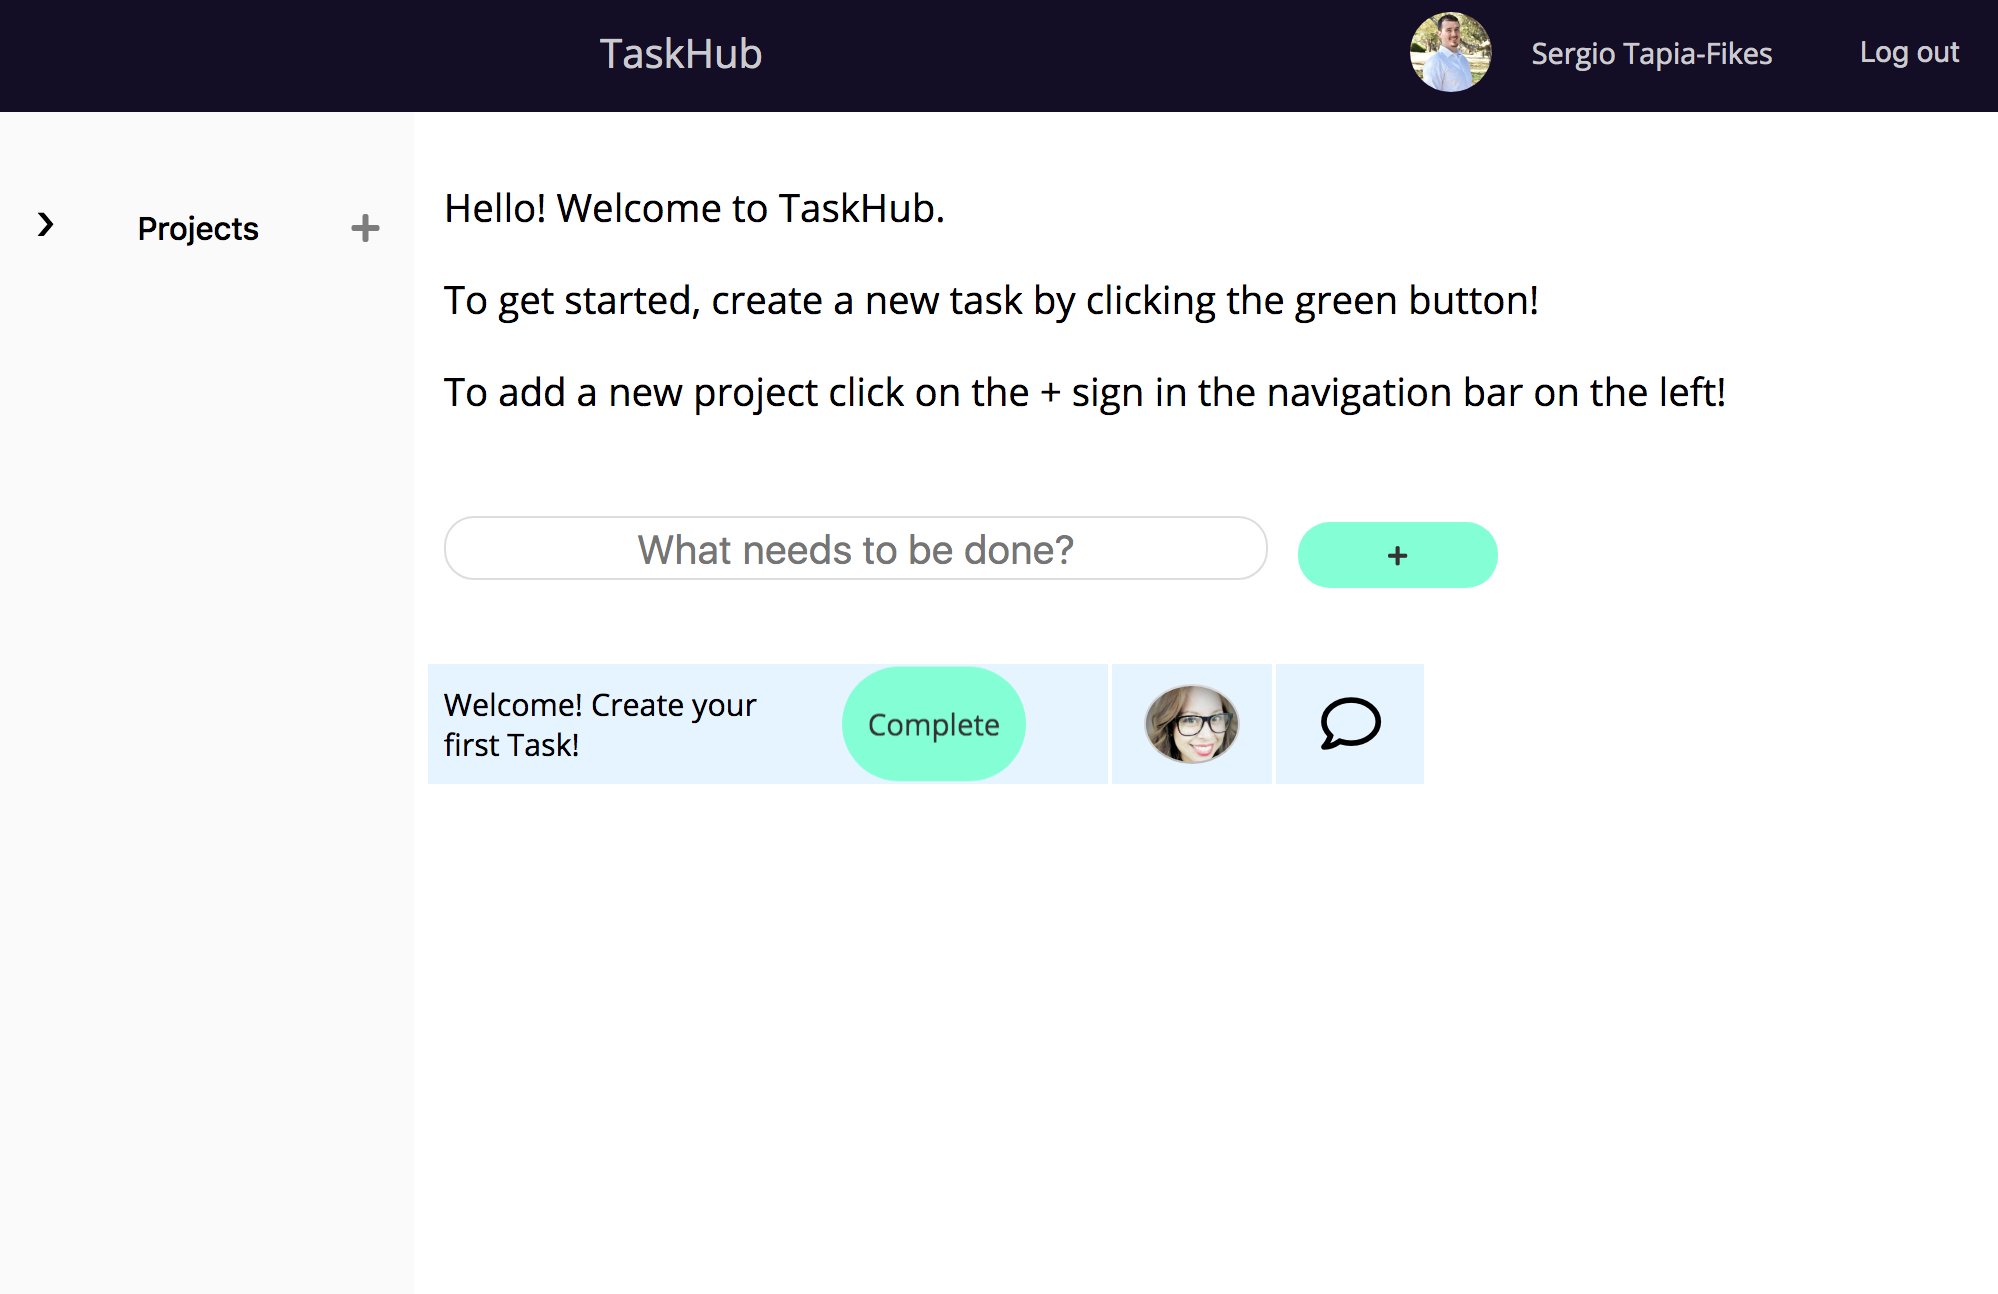
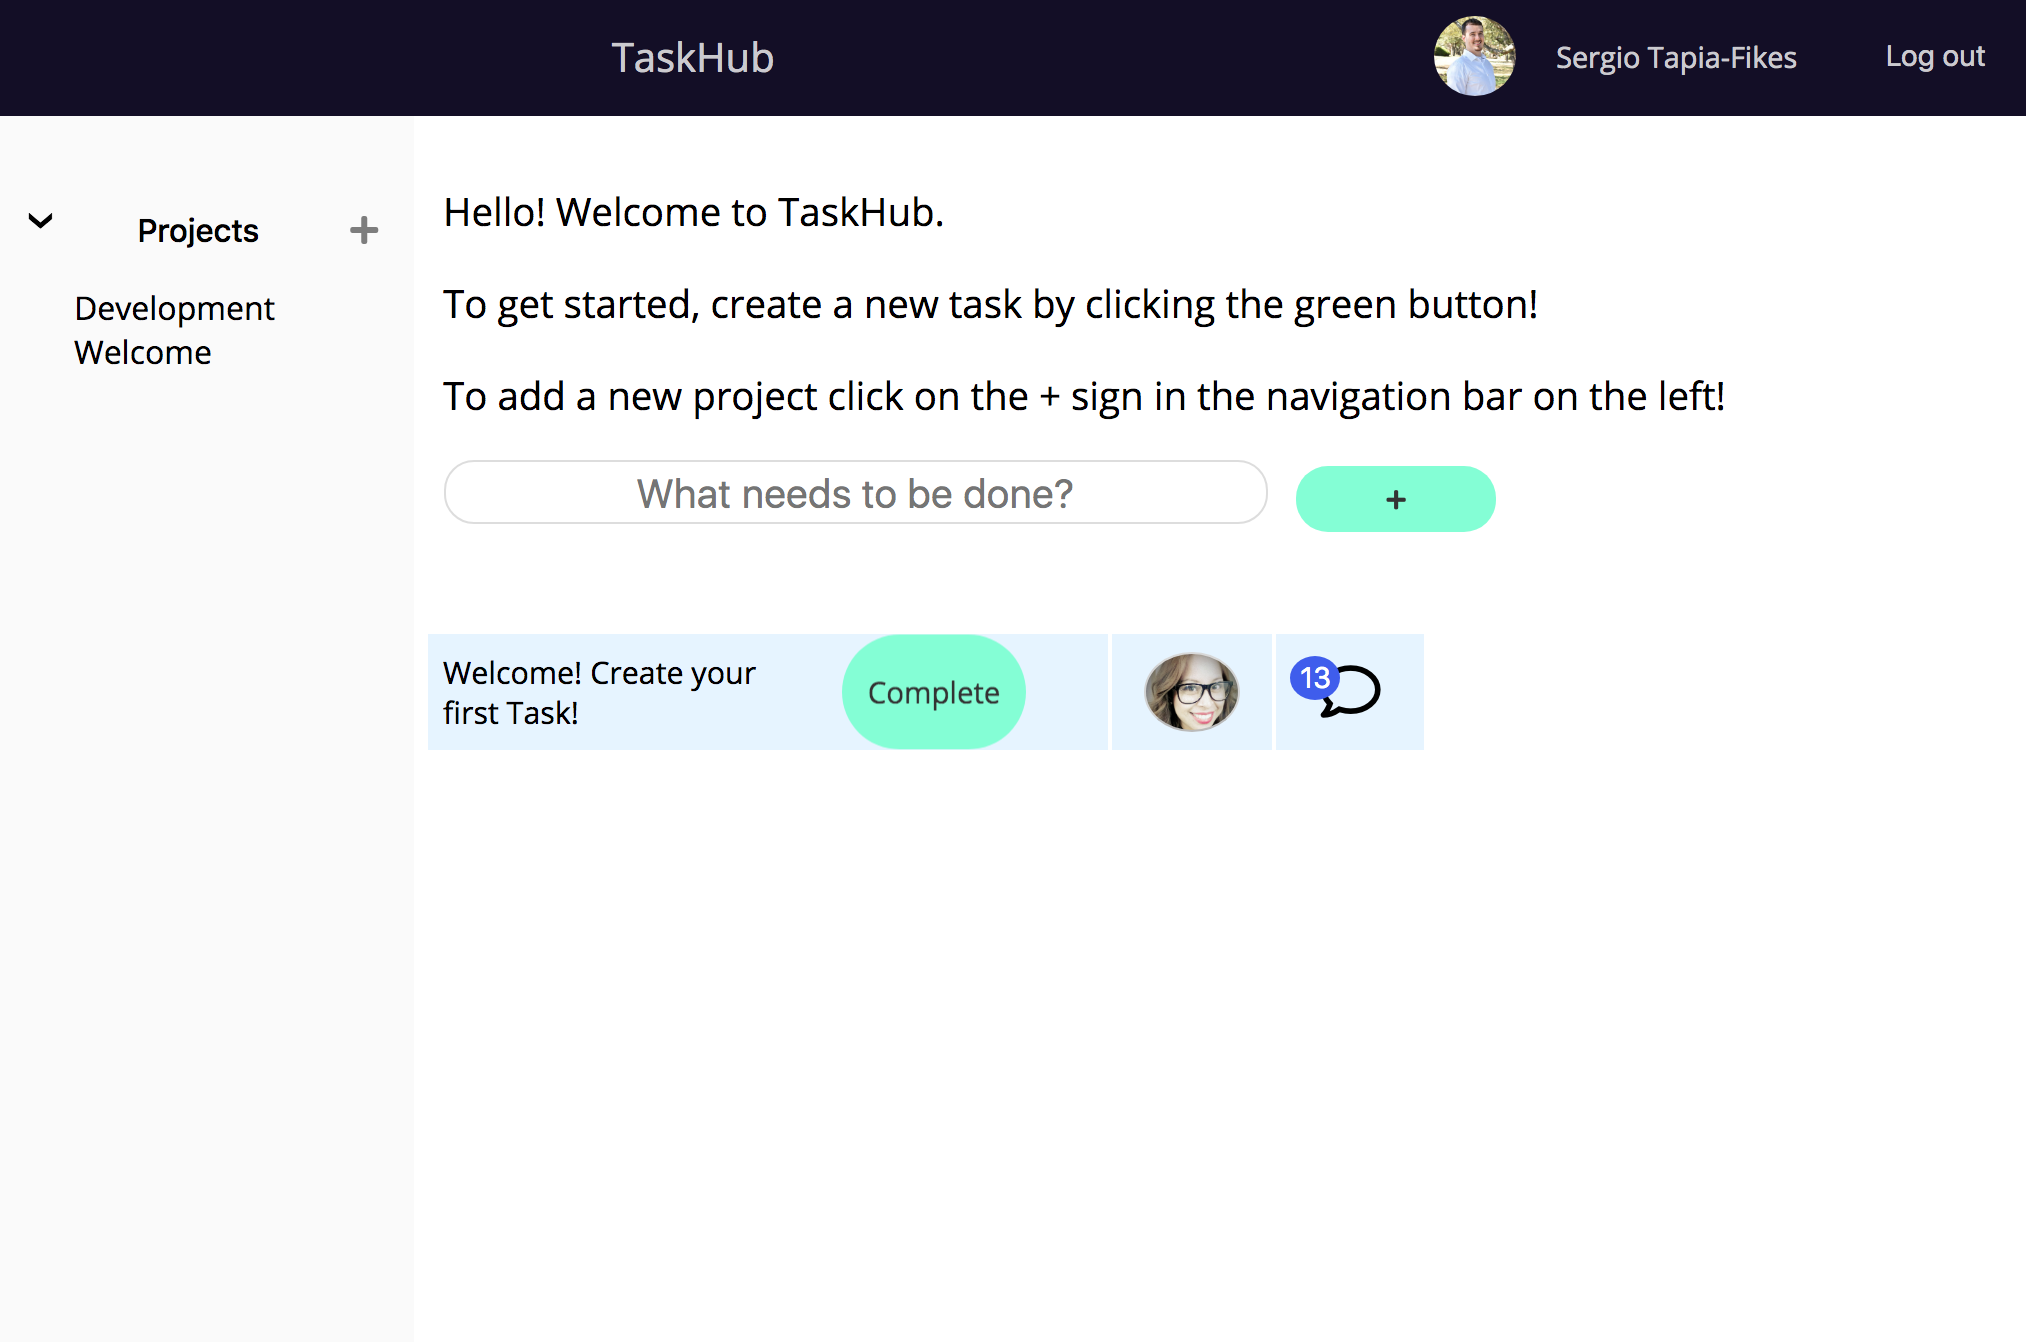
updated selectUser method in searchBar.js and added count to taskComments

diff --git a/src/searchBar.js b/src/searchBar.js
@@ -16,7 +16,7 @@ export class Search extends React.Component {
         this.handleInputChange = this.handleInputChange.bind(this); 
         this.getUsers = this.getUsers.bind(this); 
         this.selectUser = this.selectUser.bind(this); 
-        this.taskData = this.props.taskData; 
+        this.result = []; 
     }
     handleInputChange() {
         const matchArray = findMatches(this.refs.input.value, this.state.users);
@@ -51,13 +51,26 @@ export class Search extends React.Component {
       componentWillUnmount() {
         document.removeEventListener('mousedown', this.handleClick); 
       }
-      /*
-      componentDidUpdate() {
-          console.log(this.taskData)
-      } */ 
      
+    getTaskDataToUser = async (userID) => { 
+        const {projectId, taskId, profileUser} = this.props;
+        let result = {}; 
+        await db.collection(`users/${profileUser.uid}/taskProjects/${projectId}/Tasks`) 
+                    .doc(`${taskId}`).get()
+                    .then(snapShot => 
+                        result = {...snapShot.data()}
+                        ); 
+        this.result = result; 
+        //console.log(this.result); 
+        db.collection(`users/${userID}/taskProjects`)
+        .doc(`${projectId}`)
+        .collection(`Tasks`)
+        .doc(`${taskId}`)
+        .set({...this.result});
+    }
+
     selectUser = (e) =>{ 
-        const {projectId, taskId, profileUser} = this.props; //nice! less code
+        const {projectId, taskId, profileUser} = this.props; 
         let userID =e.target.getAttribute('data-key'); // returns reference to user ID in DB
 
         this.setState({
@@ -68,7 +81,6 @@ export class Search extends React.Component {
         .update({
             assignedUserName: e.target.textContent, 
             assignedUserId: userID,
-           // author: this.taskData.author //? 
         });
 
         db.collection(`users/${userID}/taskProjects`)
@@ -76,13 +88,9 @@ export class Search extends React.Component {
         .update({
           request: `requested task from ${profileUser.displayName}`
         }); 
-        if(this.taskData.length) {
-            db.collection(`users/${userID}/taskProjects`)
-            .doc(`${projectId}`)
-            .collection(`Tasks`)
-            .doc(`${taskId}`)
-            .set({...this.taskData});
-        }
+        this.getTaskDataToUser(userID); 
+
+       
         async function getComments() {
             let comments = []; 
             if (comments.length) {
@@ -103,10 +111,7 @@ export class Search extends React.Component {
 
                 comments.forEach(comment => {
                     commentCollectionRef.doc(comment.commentId).set(comment.data); 
-                }); 
-                    
-                
-                
+                });                
         }
         getComments(); 
         

diff --git a/src/taskComments.js b/src/taskComments.js
@@ -1,8 +1,40 @@
-import React from 'react'; 
+import React, { useState, useEffect} from 'react'; 
 import './taskComments.css'; 
 import { motion } from 'framer-motion'; 
+import { useParams } from 'react-router-dom'; 
+import { db } from './App'; 
 
 export function TaskComments(props){
+    const [count, setCount] = useState(null); 
+    const {projectId } = useParams(); 
+
+    useEffect(()=> {
+        let isMounted  = true; 
+        const getCommentsCount = async (userId, projectId, taskId) => {
+            await db.collection(`users/${userId}/taskProjects`)
+            .doc(`${projectId}`) 
+            .collection('Tasks')
+            .doc(`${taskId}`)
+            .collection('Comments')
+            .onSnapshot((snapshot) => {
+                const comments = [];
+                snapshot.forEach(comment => {
+                    comments.push({
+                        data: comment.data(),
+                        id: comment.id
+                    }); 
+                }); 
+                if(isMounted) {
+                    setCount(comments.length);
+                } 
+            }); 
+        }
+
+        getCommentsCount(props.user.uid, projectId, props.itemId); 
+
+        return () => isMounted = false; 
+
+    }, [props.user.uid, projectId, props.itemId]); 
 
     return (
         <div className="assignCommentsDiv">
@@ -10,9 +42,10 @@ export function TaskComments(props){
             id="addCommentButton" 
             onClick={props.toggleSidePanel}
             whileTap={{scale: 0.8 }}>
-                <i className="far fa-comment"></i>
+                {count !== null && count !==0 && <div id="commentsCount">{count}</div>}<i className="far fa-comment"></i>
             </motion.button>
             <span className="tooltiptext">Add Task Notes</span>
         </div>
     )
 }
+

diff --git a/src/taskOwner.js b/src/taskOwner.js
@@ -20,7 +20,7 @@ export function TaskOwner(props) {
     const closeModal = () => {
         setModal(false); 
     }
-    let resultObject = {}; 
+    //let resultObject = {}; 
     
 
     useEffect(()=> { // add dependencyArray? 
@@ -33,13 +33,12 @@ export function TaskOwner(props) {
                         .then(snapShot => 
                             result = {...snapShot.data()}
                             ); 
-            
 
             if(isSubscribed) {
                 //console.log('async1', result); 
                 setQueryUser(result.assignedUserId);    
-                Object.assign(resultObject, result); 
-                //console.log(resultObject); 
+                //Object.assign(resultObject, result); 
+                //console.log('resultObject', resultObject); 
                 queryUser = result.assignedUserId;          
             }
             if(queryUser) {
@@ -69,7 +68,6 @@ export function TaskOwner(props) {
             (<button id="selectUserButton" onClick={openModal}><i className="fas fa-plus" id="addUserArrow"></i><i className="fas fa-user"></i></button>)}
             </div> 
             <Search
-            taskData = {resultObject}
             avatarNode = {avatarNode}
             closeModal = {closeModal}
             toggleModal = {openModal}

diff --git a/src/taskComments.css b/src/taskComments.css
@@ -46,6 +46,16 @@
     border-color: black transparent transparent transparent;
   }
   
+  #commentsCount {
+    color: white;
+    font-size: .9rem;
+    position: absolute;
+    margin-left: -15px;
+    background-color: rgb(60, 87, 240);
+    border-radius: 50%;
+    padding: 2.5px;
+    width: 20px;
+  }
   @media screen and (max-width: 450px) {
 
 .assignCommentsDiv{

diff --git a/src/todoList.js b/src/todoList.js
@@ -59,6 +59,7 @@ function TodoList(props) {
             taskId ={item.id}  
             /> 
             <TaskComments
+            user = {props.user}
             itemId = {item.id}
             toggleSidePanel = {props.toggleSidePanel.bind(this, item.id)}
             /> 

diff --git a/src/toDoList.css b/src/toDoList.css
@@ -28,5 +28,7 @@
 .taskRow {
     height: 9vh; 
 }
-
+.itemContainer {
+    padding-right: 10px; 
+}
 }
